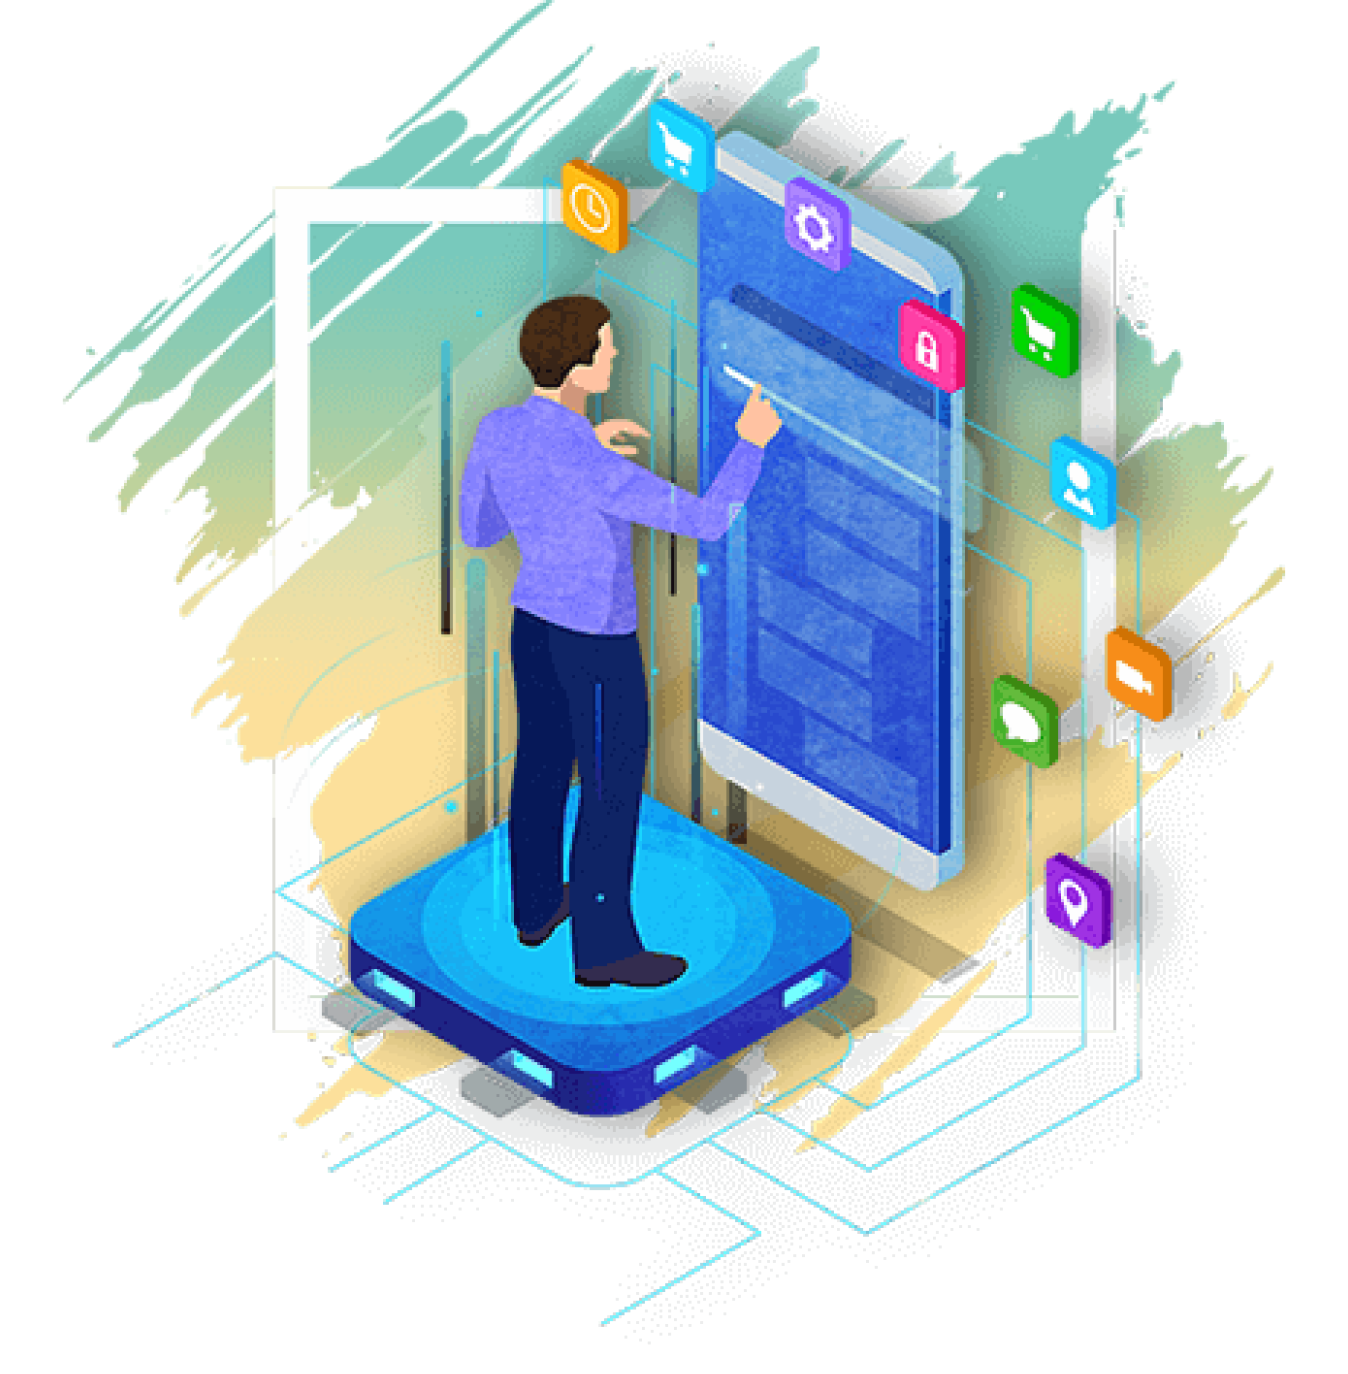
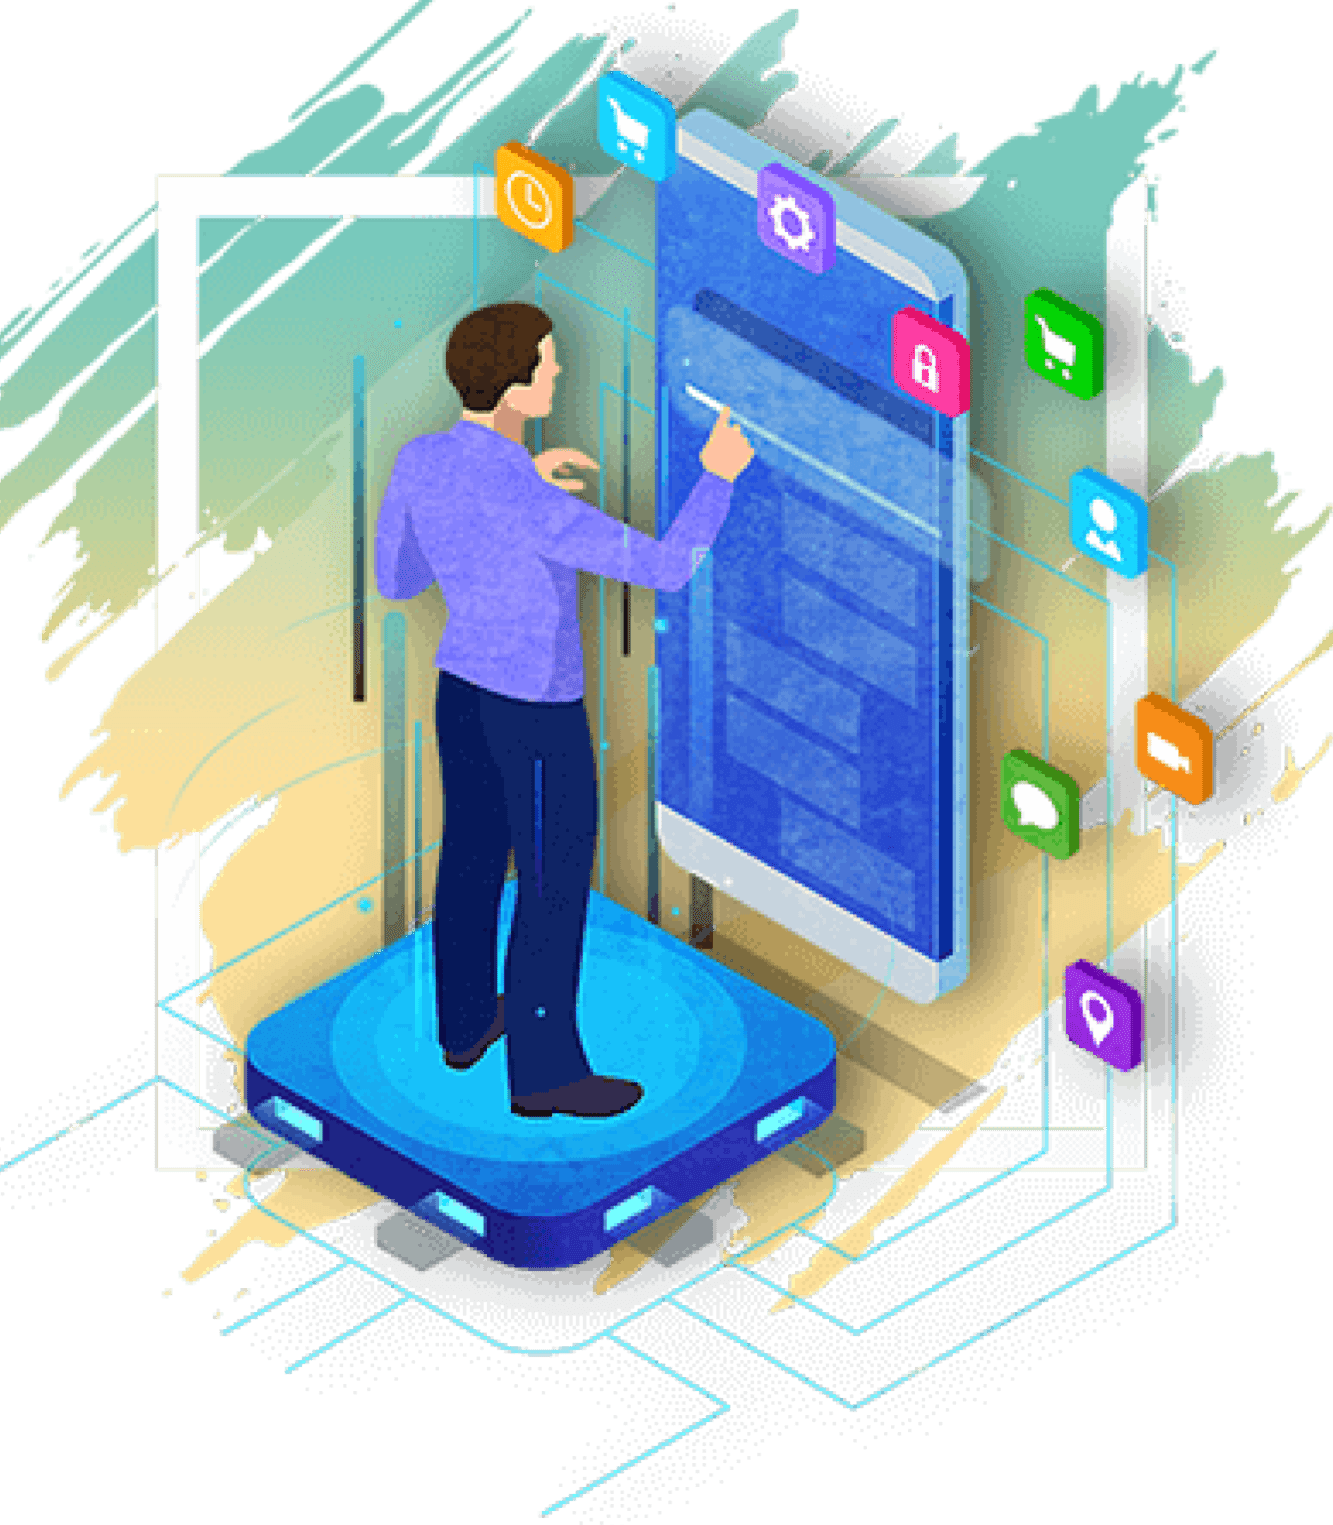
fix: fix byuma case study image

diff --git a/components/case-study/Effort.jsx b/components/case-study/Effort.jsx
@@ -27,8 +27,8 @@ const Effort = ({ Casedata }) => {
                     <p> {item.info}</p>
                     <Image
                       src={item.solimg}
-                      height={202}
-                      width={322}
+                      height={300}
+                      width={422}
                       objectFit="contain"
                     />
                   </div>
